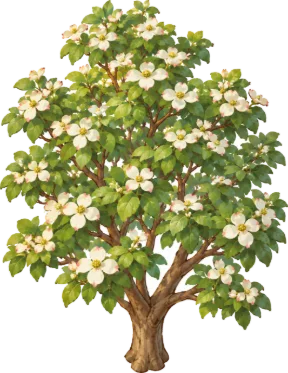
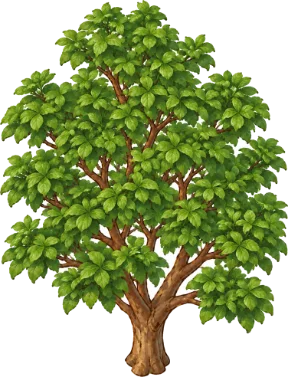
Pine-straw texture, title panorama, summer dogwood without flowers

diff --git a/index.html b/index.html
@@ -1,5 +1,5 @@
 <!doctype html>
-<!-- GENERATED by shared/tools/inline.mjs from src/ – edit src/, not this file. 2026-11-01T16:02:13.318Z -->
+<!-- GENERATED by shared/tools/inline.mjs from src/ – edit src/, not this file. 2026-11-01T16:07:40.972Z -->
 
 <html lang="en">
 <head>
@@ -300,7 +300,7 @@ body.hc .toast { background: #000; }
   <div id="sr" class="sr-only" aria-live="polite"></div>
 </div>
 <script>const FACTS = {"note":"Every fact card the game displays. corpus = the quoted strings must appear in the named research file (research/garvan-*.md), which lists the sources. Verified by tools/check-facts.mjs.","facts":[{"id":"g-acres","corpus":{"file":"research/garvan-layout.md","contains":["210-acre woodland botanical garden","4.5 miles of shoreline"]},"text":"Garvan Woodland Gardens is a 210-acre woodland botanical garden on a forested peninsula in Lake Hamilton, with about 4.5 miles of shoreline.","source":"Wikipedia: Garvan Woodland Gardens","sourceUrl":"https://en.wikipedia.org/wiki/Garvan_Woodland_Gardens"},{"id":"g-university","corpus":{"file":"research/garvan-layout.md","contains":["owned by the University of Arkansas","Fay Jones School of Architecture and Design"]},"text":"The garden is owned by the University of Arkansas and run through its Fay Jones School of Architecture and Design.","source":"Encyclopedia of Arkansas: Garvan Woodland Gardens","sourceUrl":"https://encyclopediaofarkansas.net/entries/garvan-woodland-gardens-4197/"},{"id":"g-44acres","corpus":{"file":"research/garvan-layout.md","contains":["About 44 acres are the developed tour area"]},"text":"About 44 acres are the developed tour area; the rest of the peninsula is pine, oak and hickory woodland.","source":"Encyclopedia of Arkansas: Garvan Woodland Gardens","sourceUrl":"https://encyclopediaofarkansas.net/entries/garvan-woodland-gardens-4197/"},{"id":"g-verna-1956","corpus":{"file":"research/garvan-layout.md","contains":["began the garden in 1956","laid out the paths and chose the plants herself"]},"text":"Verna Cook Garvan began the garden in 1956. Self-taught, she laid out the paths and chose the plants herself over about 40 years.","source":"Encyclopedia of Arkansas: Garvan Woodland Gardens","sourceUrl":"https://encyclopediaofarkansas.net/entries/garvan-woodland-gardens-4197/"},{"id":"g-cook-timber","corpus":{"file":"research/garvan-layout.md","contains":["Arthur B. Cook of Malvern bought it for timber","made the land a peninsula"]},"text":"In the 1920s Arthur B. Cook of Malvern bought the land for timber. Carpenter Dam then created Lake Hamilton, which made it a peninsula.","source":"Encyclopedia of Arkansas: Garvan Woodland Gardens","sourceUrl":"https://encyclopediaofarkansas.net/entries/garvan-woodland-gardens-4197/"},{"id":"g-trust-1985","corpus":{"file":"research/garvan-layout.md","contains":["In 1985 she signed a trust agreement","She died in 1993"]},"text":"In 1985 Verna Garvan signed a trust agreement giving the property to the University of Arkansas landscape architecture program. She died in 1993.","source":"Encyclopedia of Arkansas: Garvan Woodland Gardens","sourceUrl":"https://encyclopediaofarkansas.net/entries/garvan-woodland-gardens-4197/"},{"id":"g-opened-2002","corpus":{"file":"research/garvan-layout.md","contains":["renamed Garvan Woodland Gardens","dedicated on April 7, 2002"]},"text":"Building the public garden began in March 2000, when it was renamed Garvan Woodland Gardens. It was dedicated on April 7, 2002.","source":"Wikipedia: Garvan Woodland Gardens","sourceUrl":"https://en.wikipedia.org/wiki/Garvan_Woodland_Gardens"},{"id":"g-visitors","corpus":{"file":"research/garvan-layout.md","contains":["More than 125,000 visitors come each year"]},"text":"More than 125,000 visitors come to the garden each year.","source":"Encyclopedia of Arkansas: Garvan Woodland Gardens","sourceUrl":"https://encyclopediaofarkansas.net/entries/garvan-woodland-gardens-4197/"},{"id":"g-chapel","corpus":{"file":"research/garvan-layout.md","contains":["Opened in September 2006, designed by Maurice Jennings and David McKee","57-foot ceiling"]},"text":"Anthony Chapel opened in September 2006. Designed by Maurice Jennings and David McKee, it is wood, glass and steel with yellow-pine beams and a 57-foot ceiling.","source":"Garvan Woodland Gardens: Anthony Chapel","sourceUrl":"https://www.garvangardens.org/weddings/anthony-chapel/"},{"id":"g-carillon","corpus":{"file":"research/garvan-layout.md","contains":["Anthony Family Carillon is a bell tower of 16 copper-clad"]},"text":"The Anthony Family Carillon beside the chapel is a bell tower of 16 copper-clad columns.","source":"Garvan Woodland Gardens: Anthony Chapel","sourceUrl":"https://www.garvangardens.org/weddings/anthony-chapel/"},{"id":"g-pavilion","corpus":{"file":"research/garvan-layout.md","contains":["By E. Fay Jones and Maurice Jennings","oculus shaped like an unfolding flower"]},"text":"The Verna C. Garvan Pavilion, by E. Fay Jones and Maurice Jennings, is open-air sandstone and redwood under a glass roof with an oculus shaped like an unfolding flower.","source":"Garvan Woodland Gardens: Garvan Pavilion and Terrace","sourceUrl":"https://www.garvangardens.org/weddings/garvan-pavilion-and-terrace/"},{"id":"g-pinewind","corpus":{"file":"research/garvan-layout.md","contains":["about 4 acres in a natural ravine","12-foot waterfall and a half-acre koi pond"]},"text":"The Garden of the Pine Wind is a Japanese garden of about 4 acres in a natural ravine, with cascades, pools, a 12-foot waterfall and a half-acre koi pond.","source":"Wikipedia: Garvan Woodland Gardens","sourceUrl":"https://en.wikipedia.org/wiki/Garvan_Woodland_Gardens"},{"id":"g-fullmoon","corpus":{"file":"research/garvan-layout.md","contains":["Bridge of the Full Moon (stone, 11 feet high, with a circular"]},"text":"The Joy Manning Scott Bridge of the Full Moon is a stone bridge 11 feet high with a circular opening.","source":"Wikipedia: Garvan Woodland Gardens","sourceUrl":"https://en.wikipedia.org/wiki/Garvan_Woodland_Gardens"},{"id":"g-sunrise","corpus":{"file":"research/garvan-layout.md","contains":["named by the mayor of Hanamaki, Japan, Hot Springs' sister city"]},"text":"The Sunrise Bridge was named by the mayor of Hanamaki, Japan, Hot Springs' sister city.","source":"Wikipedia: Garvan Woodland Gardens","sourceUrl":"https://en.wikipedia.org/wiki/Garvan_Woodland_Gardens"},{"id":"g-cloud","corpus":{"file":"research/garvan-layout.md","contains":["white azaleas are clipped to look like clouds"]},"text":"At the Floating Cloud Bridge, white azaleas are clipped to look like clouds.","source":"Wikipedia: Garvan Woodland Gardens","sourceUrl":"https://en.wikipedia.org/wiki/Garvan_Woodland_Gardens"},{"id":"g-bonsai","corpus":{"file":"research/garvan-layout.md","contains":["nearly three dozen bonsai and penjing"]},"text":"The Weyerhaeuser Bonsai Garden by the entrance shows nearly three dozen bonsai and penjing.","source":"Stephen Travels: Garvan Woodland Gardens","sourceUrl":"https://stephentravels.com/the-great-outdoors/garvan-woodland-gardens/"},{"id":"g-canopy","corpus":{"file":"research/garvan-layout.md","contains":["120-foot winding walkway on stone piers about two stories up"]},"text":"The Millsap Canopy Bridge is a 120-foot winding walkway on stone piers about two stories up, over Singing Springs Gorge.","source":"Stephen Travels: Garvan Woodland Gardens","sourceUrl":"https://stephentravels.com/the-great-outdoors/garvan-woodland-gardens/"},{"id":"g-children","corpus":{"file":"research/garvan-layout.md","contains":["cave behind a 12-foot waterfall","450-foot elevated walkway"]},"text":"The Evans Children's Adventure Garden has a cave behind a 12-foot waterfall, a rock maze, wading pools and a 450-foot elevated walkway.","source":"Stephen Travels: Garvan Woodland Gardens","sourceUrl":"https://stephentravels.com/the-great-outdoors/garvan-woodland-gardens/"},{"id":"g-treehouse","corpus":{"file":"research/garvan-layout.md","contains":["By Modus Studio of Fayetteville","June 30, 2018"]},"text":"The Bob and Sunny Evans Tree House, by Modus Studio of Fayetteville in steel and heat-treated pine, opened June 30, 2018.","source":"Dezeen: Garvan Woodland Gardens treehouse","sourceUrl":"https://www.dezeen.com/?p=1402721"},{"id":"g-hixson","corpus":{"file":"research/garvan-layout.md","contains":["45 acres of dense forest on the north side","Birdsong Trail"]},"text":"The Hixson Family Nature Preserve is 45 acres of dense forest on the north side, with the Birdsong Trail and bird feeding stations.","source":"TravelAwaits: Garvan Woodland Gardens","sourceUrl":"https://www.travelawaits.com/2562287/garvan-woodland-gardens/"},{"id":"g-perry","corpus":{"file":"research/garvan-layout.md","contains":["The westernmost point: a flagstone terrace over Lake Hamilton"]},"text":"The Perry Wildflower Overlook is the westernmost point: a flagstone terrace over Lake Hamilton beside a wildflower meadow.","source":"Garvan Woodland Gardens: Perry Wildflower Overlook","sourceUrl":"https://www.garvangardens.org/weddings/perry-wildflower-overlook/"},{"id":"g-train","corpus":{"file":"research/garvan-layout.md","contains":["G-scale trains on 389 feet of track","Malvern Brick & Tile"]},"text":"The Sugg Model Train Garden runs G-scale trains on 389 feet of track, past miniatures of Malvern Brick & Tile and the Cook family's lumber mill.","source":"TravelAwaits: Garvan Woodland Gardens","sourceUrl":"https://www.travelawaits.com/2562287/garvan-woodland-gardens/"},{"id":"g-klipsch","corpus":{"file":"research/garvan-layout.md","contains":["flagstone seating for 500"]},"text":"The Klipsch Amphitheater sits in a natural hollow in the middle of the gardens, with flagstone seating for 500 under tall pines.","source":"Garvan Woodland Gardens amphitheater RFQ (2012)","sourceUrl":"https://www.publicgardens.org/wp-content/uploads/2015/11/Garvan-Woodland-Gardens_RFP.pdf"},{"id":"g-welcome","corpus":{"file":"research/garvan-layout.md","contains":["Wood and native stone, designed by French Harris of Hot Springs"]},"text":"The Pratt Welcome Center, in wood and native stone, was designed by French Harris of Hot Springs. It holds the gate, the GardenShop and the Magnolia Room.","source":"Encyclopedia of Arkansas: Garvan Woodland Gardens","sourceUrl":"https://encyclopediaofarkansas.net/entries/garvan-woodland-gardens-4197/"},{"id":"g-azaleas","corpus":{"file":"research/garvan-layout.md","contains":["More than 160 varieties of azaleas"]},"text":"The garden grows more than 160 varieties of azaleas.","source":"Wikipedia: Garvan Woodland Gardens","sourceUrl":"https://en.wikipedia.org/wiki/Garvan_Woodland_Gardens"},{"id":"g-camellias","corpus":{"file":"research/garvan-layout.md","contains":["about 100 plants of 50 cultivars along a quarter-mile camellia trail"]},"text":"About 100 camellias of 50 cultivars line a quarter-mile camellia trail; Garvan is on the American Camellia Trail.","source":"American Camellia Society: Garvan Woodland Gardens","sourceUrl":"https://americancamellias.com/gardens-nurseries/american-camellia-trail-gardens/camellia-trail-gardens-by-state/arkansas/garvan-woodland-gardens"},{"id":"g-george","corpus":{"file":"research/garvan-layout.md","contains":["George can be","usually near the Pratt Welcome Center"]},"text":"A peacock named George roams the grounds, usually near the Pratt Welcome Center.","source":"Arkansas Tourism: Birding at Garvan Woodland Gardens","sourceUrl":"https://www.arkansas.com/articles/birding-garvan-woodland-gardens"},{"id":"g-dogs","corpus":{"file":"research/garvan-layout.md","contains":["Dogs are welcome on a leash of 6 feet or less"]},"text":"Dogs are welcome on a leash of 6 feet or less, but not in the chapel, the treehouse, the ponds or during Holiday Lights.","source":"Garvan Woodland Gardens: Admission","sourceUrl":"https://www.garvangardens.org/?p=8"},{"id":"g-tulips","corpus":{"file":"research/garvan-operations.md","contains":["About 150,000 tulips of about 150 varieties","hand-planted in designed shapes marked out with string"]},"text":"The Tulip Extravaganza shows about 150,000 tulips of about 150 varieties, hand-planted in designed shapes marked out with string lines.","source":"The Sentinel-Record (2026)","sourceUrl":"https://www.hotsr.com/news/2026/mar/09/watch-garvan-woodland-gardens-tulip-extravaganza/"},{"id":"g-tulip-annual","corpus":{"file":"research/garvan-operations.md","contains":["treated as annuals and replanted every year","USDA Zone 8"]},"text":"The tulips are treated as annuals and replanted every year: Hot Springs is now USDA Zone 8, too warm for most tulips to come back.","source":"The Sentinel-Record (2024)","sourceUrl":"https://www.hotsr.com/news/2024/mar/21/watch-garvan-woodland-gardens-annual-tulip/"},{"id":"g-tulip-january","corpus":{"file":"research/garvan-operations.md","contains":["moved planting later, into January","150,000 tulips in 10 days"]},"text":"Staff moved tulip planting later, into January, so tulips would not bloom while the garden is closed. For the 2026 show the crew planted 150,000 tulips in 10 days.","source":"The Sentinel-Record","sourceUrl":"https://www.hotsr.com/news/2026/mar/09/watch-garvan-woodland-gardens-tulip-extravaganza/"},{"id":"g-tulip-freeze","corpus":{"file":"research/garvan-operations.md","contains":["sustained hard freeze in the mid-20s"]},"text":"Brief dips below freezing are fine for tulips, but a sustained hard freeze in the mid-20s °F damages the blooms.","source":"The Sentinel-Record (2024)","sourceUrl":"https://www.hotsr.com/news/2024/mar/21/watch-garvan-woodland-gardens-annual-tulip/"},{"id":"g-closed-january","corpus":{"file":"research/garvan-operations.md","contains":["closed for all of January and reopens about February 1"]},"text":"The garden closes for all of January and reopens about February 1.","source":"Garvan Woodland Gardens","sourceUrl":"https://www.garvangardens.org/"},{"id":"g-daffodils","corpus":{"file":"research/garvan-operations.md","contains":["tens of thousands of daffodils bloom first"]},"text":"Daffodil Days open the season: crocus, hyacinths and tens of thousands of daffodils bloom first after the garden reopens.","source":"University of Arkansas News","sourceUrl":"https://news.uark.edu/articles/20087/garvan-woodland-gardens-reopens-in-february-with-daffodil-days-celebration"},{"id":"g-fall-woodlands","corpus":{"file":"research/garvan-operations.md","contains":["Japanese maples, chrysanthemums and fall annuals","more than 8,000 mums"]},"text":"Fall in the Woodlands brings Japanese maples, chrysanthemums and fall annuals; past displays used more than 8,000 mums.","source":"University of Arkansas News","sourceUrl":"https://news.uark.edu/articles/22084/fall-heralded-with-chrysanthemum-blooms-at-garvan-woodland-gardens"},{"id":"g-trashbash","corpus":{"file":"research/garvan-operations.md","contains":["Lake Hamilton shoreline, road and ditch cleanup"]},"text":"Trash Bash is an annual Lake Hamilton shoreline, road and ditch cleanup each fall.","source":"University of Arkansas News","sourceUrl":"https://news.uark.edu/articles/39739/garvan-woodland-gardens-hosts-trash-bash-fall-festival-and-workshops-in-october"},{"id":"g-lights","corpus":{"file":"research/garvan-operations.md","contains":["November 21 to December 31","about 5 to 9:30 PM"]},"text":"Holiday Lights runs at night, about 5 to 9:30 PM; in 2026 from November 21 to December 31.","source":"Garvan Woodland Gardens: Holiday Lights","sourceUrl":"https://www.garvangardens.org/holiday-lights"},{"id":"g-rosetree","corpus":{"file":"research/garvan-operations.md","contains":["roughly 50-foot tree with a 12 to 15 minute musical light show"]},"text":"The Rose Tree is a roughly 50-foot tree with a 12 to 15 minute musical light show.","source":"KARK (2023)","sourceUrl":"https://digital-release.kark.com/?p=1609266"},{"id":"g-lights-contract","corpus":{"file":"research/garvan-operations.md","contains":["installation begins around September 15","about 150 pole trees, about 60 wrapped trees"]},"text":"A 2026 university contract has Holiday Lights installation begin around September 15, with about 150 pole trees, 60 wrapped trees and 300 set pieces over about 20 acres.","source":"University of Arkansas bid IFB05142026","sourceUrl":"https://app.govly.com/public/awards/5f97e28df8b088029ffefb4a929c2e47"},{"id":"g-46weeks","corpus":{"file":"research/garvan-operations.md","contains":["about 46 weeks of work a year","Volunteers cannot operate machinery"]},"text":"Holiday Lights takes about 46 weeks of work a year. Some elements weigh over 300 pounds, and volunteers cannot operate machinery.","source":"The Sentinel-Record (2024)","sourceUrl":"https://www.hotsr.com/news/2024/sep/15/watch-all-hands-on-deck-garden-seeks-volunteers/"},{"id":"g-weddings","corpus":{"file":"research/garvan-operations.md","contains":["about 200 weddings a year"]},"text":"The garden hosts about 200 weddings a year.","source":"University of Arkansas News","sourceUrl":"https://news.uark.edu/articles/21249/anthony-chapel-at-garvan-woodland-gardens-named-one-of-the-coolest-places-to-get-married-"},{"id":"g-storm-2012","corpus":{"file":"research/garvan-operations.md","contains":["In 2012 the garden closed for the rest of the year after a winter storm"]},"text":"In 2012 the garden closed for the rest of the year after a winter storm and power outages.","source":"KATV","sourceUrl":"https://katv.com/archive/garvan-woodland-gardens-closed-the-rest-of-2012"}]};</script>
-<script>const ART_MANIFEST = {"animal-peacock":{"file":"animal-peacock.webp","w":192,"h":193,"bytes":12824},"animal-peacock-fan":{"file":"animal-peacock-fan.webp","w":256,"h":250,"bytes":29676},"animal-peahen":{"file":"animal-peahen.webp","w":128,"h":141,"bytes":6690},"bld-barn":{"file":"bld-barn.webp","w":1280,"h":613,"bytes":118902},"bld-brides":{"file":"bld-brides.webp","w":448,"h":449,"bytes":46272},"bld-cafe":{"file":"bld-cafe.webp","w":512,"h":499,"bytes":60840},"bld-carillon":{"file":"bld-carillon.webp","w":192,"h":880,"bytes":32776},"bld-chapel":{"file":"bld-chapel.webp","w":640,"h":974,"bytes":70218},"bld-greenhouse":{"file":"bld-greenhouse.webp","w":512,"h":384,"bytes":48328},"bld-grooms":{"file":"bld-grooms.webp","w":448,"h":449,"bytes":46272},"bld-pavilion":{"file":"bld-pavilion.webp","w":640,"h":498,"bytes":71728},"bld-restroom":{"file":"bld-restroom.webp","w":384,"h":266,"bytes":24086},"bld-storage":{"file":"bld-storage.webp","w":512,"h":395,"bytes":32750},"bld-treehouse":{"file":"bld-treehouse.webp","w":512,"h":530,"bytes":59182},"bld-welcome":{"file":"bld-welcome.webp","w":768,"h":417,"bytes":74312},"chars-dress":{"file":"chars-dress.webp","w":2688,"h":960,"bytes":123564},"chars-overlay":{"file":"chars-overlay.webp","w":2688,"h":1920,"bytes":293794},"chars-trousers":{"file":"chars-trousers.webp","w":2688,"h":960,"bytes":128172},"lamp-led":{"file":"lamp-led.webp","w":96,"h":421,"bytes":7996},"rock":{"file":"rock.webp","w":160,"h":135,"bytes":8814},"sign":{"file":"sign.webp","w":160,"h":154,"bytes":8244},"street-bench":{"file":"street-bench.webp","w":180,"h":153,"bytes":9726},"tex-asphalt":{"file":"tex-asphalt.webp","w":512,"h":512,"bytes":51384},"tex-creek":{"file":"tex-creek.webp","w":512,"h":512,"bytes":41372},"tex-flagstone":{"file":"tex-flagstone.webp","w":512,"h":512,"bytes":26666},"tex-forest":{"file":"tex-forest.webp","w":512,"h":512,"bytes":62658},"tex-grass":{"file":"tex-grass.webp","w":512,"h":512,"bytes":43982},"tex-gravel":{"file":"tex-gravel.webp","w":512,"h":512,"bytes":61236},"tex-lake":{"file":"tex-lake.webp","w":640,"h":640,"bytes":43458},"tex-path":{"file":"tex-path.webp","w":512,"h":512,"bytes":31608},"tex-pavers":{"file":"tex-pavers.webp","w":512,"h":512,"bytes":25432},"tex-rock":{"file":"tex-rock.webp","w":512,"h":512,"bytes":65558},"tex-sand":{"file":"tex-sand.webp","w":512,"h":512,"bytes":32858},"tex-snow":{"file":"tex-snow.webp","w":512,"h":512,"bytes":44842},"tex-soil":{"file":"tex-soil.webp","w":512,"h":512,"bytes":28638},"tree-cypress":{"file":"tree-cypress.webp","w":288,"h":511,"bytes":47238},"tree-dogwood":{"file":"tree-dogwood.webp","w":288,"h":373,"bytes":37702},"tree-dogwood-fa":{"file":"tree-dogwood-fa.webp","w":288,"h":373,"bytes":39186},"tree-dogwood-sp":{"file":"tree-dogwood-sp.webp","w":288,"h":376,"bytes":41824},"tree-dogwood-wi":{"file":"tree-dogwood-wi.webp","w":288,"h":378,"bytes":64052},"tree-jmaple":{"file":"tree-jmaple.webp","w":288,"h":358,"bytes":42940},"tree-jmaple-fa":{"file":"tree-jmaple-fa.webp","w":288,"h":359,"bytes":44424},"tree-jmaple-wi":{"file":"tree-jmaple-wi.webp","w":288,"h":371,"bytes":70572},"tree-magnolia":{"file":"tree-magnolia.webp","w":256,"h":331,"bytes":30568},"tree-oak-fa":{"file":"tree-oak-fa.webp","w":320,"h":400,"bytes":39742},"tree-oak-sp":{"file":"tree-oak-sp.webp","w":320,"h":401,"bytes":47990},"tree-oak-su":{"file":"tree-oak-su.webp","w":320,"h":398,"bytes":34990},"tree-oak-wi":{"file":"tree-oak-wi.webp","w":320,"h":416,"bytes":76366},"tree-pine":{"file":"tree-pine.webp","w":256,"h":352,"bytes":29336},"tree-redbud":{"file":"tree-redbud.webp","w":288,"h":385,"bytes":53086},"tree-redbud-sp":{"file":"tree-redbud-sp.webp","w":288,"h":385,"bytes":56214}};</script>
+<script>const ART_MANIFEST = {"animal-peacock":{"file":"animal-peacock.webp","w":192,"h":193,"bytes":12824},"animal-peacock-fan":{"file":"animal-peacock-fan.webp","w":256,"h":250,"bytes":29676},"animal-peahen":{"file":"animal-peahen.webp","w":128,"h":141,"bytes":6690},"bld-barn":{"file":"bld-barn.webp","w":1280,"h":613,"bytes":118902},"bld-brides":{"file":"bld-brides.webp","w":448,"h":449,"bytes":46272},"bld-cafe":{"file":"bld-cafe.webp","w":512,"h":499,"bytes":60840},"bld-carillon":{"file":"bld-carillon.webp","w":192,"h":880,"bytes":32776},"bld-chapel":{"file":"bld-chapel.webp","w":640,"h":974,"bytes":70218},"bld-greenhouse":{"file":"bld-greenhouse.webp","w":512,"h":384,"bytes":48328},"bld-grooms":{"file":"bld-grooms.webp","w":448,"h":449,"bytes":46272},"bld-pavilion":{"file":"bld-pavilion.webp","w":640,"h":498,"bytes":71728},"bld-restroom":{"file":"bld-restroom.webp","w":384,"h":266,"bytes":24086},"bld-storage":{"file":"bld-storage.webp","w":512,"h":395,"bytes":32750},"bld-treehouse":{"file":"bld-treehouse.webp","w":512,"h":530,"bytes":59182},"bld-welcome":{"file":"bld-welcome.webp","w":768,"h":417,"bytes":74312},"chars-dress":{"file":"chars-dress.webp","w":2688,"h":960,"bytes":123564},"chars-overlay":{"file":"chars-overlay.webp","w":2688,"h":1920,"bytes":293794},"chars-trousers":{"file":"chars-trousers.webp","w":2688,"h":960,"bytes":128172},"lamp-led":{"file":"lamp-led.webp","w":96,"h":421,"bytes":7996},"rock":{"file":"rock.webp","w":160,"h":135,"bytes":8814},"sign":{"file":"sign.webp","w":160,"h":154,"bytes":8244},"street-bench":{"file":"street-bench.webp","w":180,"h":153,"bytes":9726},"tex-asphalt":{"file":"tex-asphalt.webp","w":512,"h":512,"bytes":51384},"tex-creek":{"file":"tex-creek.webp","w":512,"h":512,"bytes":41372},"tex-flagstone":{"file":"tex-flagstone.webp","w":512,"h":512,"bytes":26666},"tex-forest":{"file":"tex-forest.webp","w":512,"h":512,"bytes":62658},"tex-grass":{"file":"tex-grass.webp","w":512,"h":512,"bytes":43982},"tex-gravel":{"file":"tex-gravel.webp","w":512,"h":512,"bytes":61236},"tex-lake":{"file":"tex-lake.webp","w":640,"h":640,"bytes":43458},"tex-path":{"file":"tex-path.webp","w":512,"h":512,"bytes":31608},"tex-pavers":{"file":"tex-pavers.webp","w":512,"h":512,"bytes":25432},"tex-pinestraw":{"file":"tex-pinestraw.webp","w":512,"h":512,"bytes":80556},"tex-rock":{"file":"tex-rock.webp","w":512,"h":512,"bytes":65558},"tex-sand":{"file":"tex-sand.webp","w":512,"h":512,"bytes":32858},"tex-snow":{"file":"tex-snow.webp","w":512,"h":512,"bytes":44842},"tex-soil":{"file":"tex-soil.webp","w":512,"h":512,"bytes":28638},"tree-cypress":{"file":"tree-cypress.webp","w":288,"h":511,"bytes":47238},"tree-dogwood":{"file":"tree-dogwood.webp","w":288,"h":377,"bytes":36444},"tree-dogwood-fa":{"file":"tree-dogwood-fa.webp","w":288,"h":373,"bytes":39186},"tree-dogwood-sp":{"file":"tree-dogwood-sp.webp","w":288,"h":376,"bytes":41824},"tree-dogwood-wi":{"file":"tree-dogwood-wi.webp","w":288,"h":378,"bytes":64052},"tree-jmaple":{"file":"tree-jmaple.webp","w":288,"h":358,"bytes":42940},"tree-jmaple-fa":{"file":"tree-jmaple-fa.webp","w":288,"h":359,"bytes":44424},"tree-jmaple-wi":{"file":"tree-jmaple-wi.webp","w":288,"h":371,"bytes":70572},"tree-magnolia":{"file":"tree-magnolia.webp","w":256,"h":331,"bytes":30568},"tree-oak-fa":{"file":"tree-oak-fa.webp","w":320,"h":400,"bytes":39742},"tree-oak-sp":{"file":"tree-oak-sp.webp","w":320,"h":401,"bytes":47990},"tree-oak-su":{"file":"tree-oak-su.webp","w":320,"h":398,"bytes":34990},"tree-oak-wi":{"file":"tree-oak-wi.webp","w":320,"h":416,"bytes":76366},"tree-pine":{"file":"tree-pine.webp","w":256,"h":352,"bytes":29336},"tree-redbud":{"file":"tree-redbud.webp","w":288,"h":385,"bytes":53086},"tree-redbud-sp":{"file":"tree-redbud-sp.webp","w":288,"h":385,"bytes":56214},"vista-garvan":{"file":"vista-garvan.webp","w":1536,"h":1024,"bytes":424108}};</script>
 <script>
 "use strict";
 // ── js/sim/rng.js

diff --git a/art-src/PROMPTS.md b/art-src/PROMPTS.md
@@ -425,3 +425,5 @@ TEXTURE:
 PANORAMA:
 25. art-src/vista-garvan.png — landscape 1536x1024, a full painted scene (not on white; this is a title-screen panorama in the style of vista-6.png): spring morning at a woodland garden on a lake in the Ouachita Mountains: in the foreground a lawn edged with drifts of pink and white azaleas and beds of red, yellow and white tulips; in the middle distance, among tall shortleaf pines, a modern wood-and-glass chapel with a very tall steep gable; behind it a blue lake with forested ridges beyond; a blue peacock with its train trailing walks on the lawn. No people, no text.
 ```
+
+Follow-up (same session): `tree-dogwood.png` came back with flowers; it was regenerated with: "Regenerate art-src/tree-dogwood.png (portrait 768x1024): EDIT of art-src/tree-dogwood-sp.png — identical tree, trunk, branch structure and silhouette, but in SUMMER: NO flowers at all, the crown fully covered in soft mid-green oval dogwood leaves. Same painted style, same white #FFFFFF background, base of trunk at bottom-centre, no ground, no shadow, no text."
